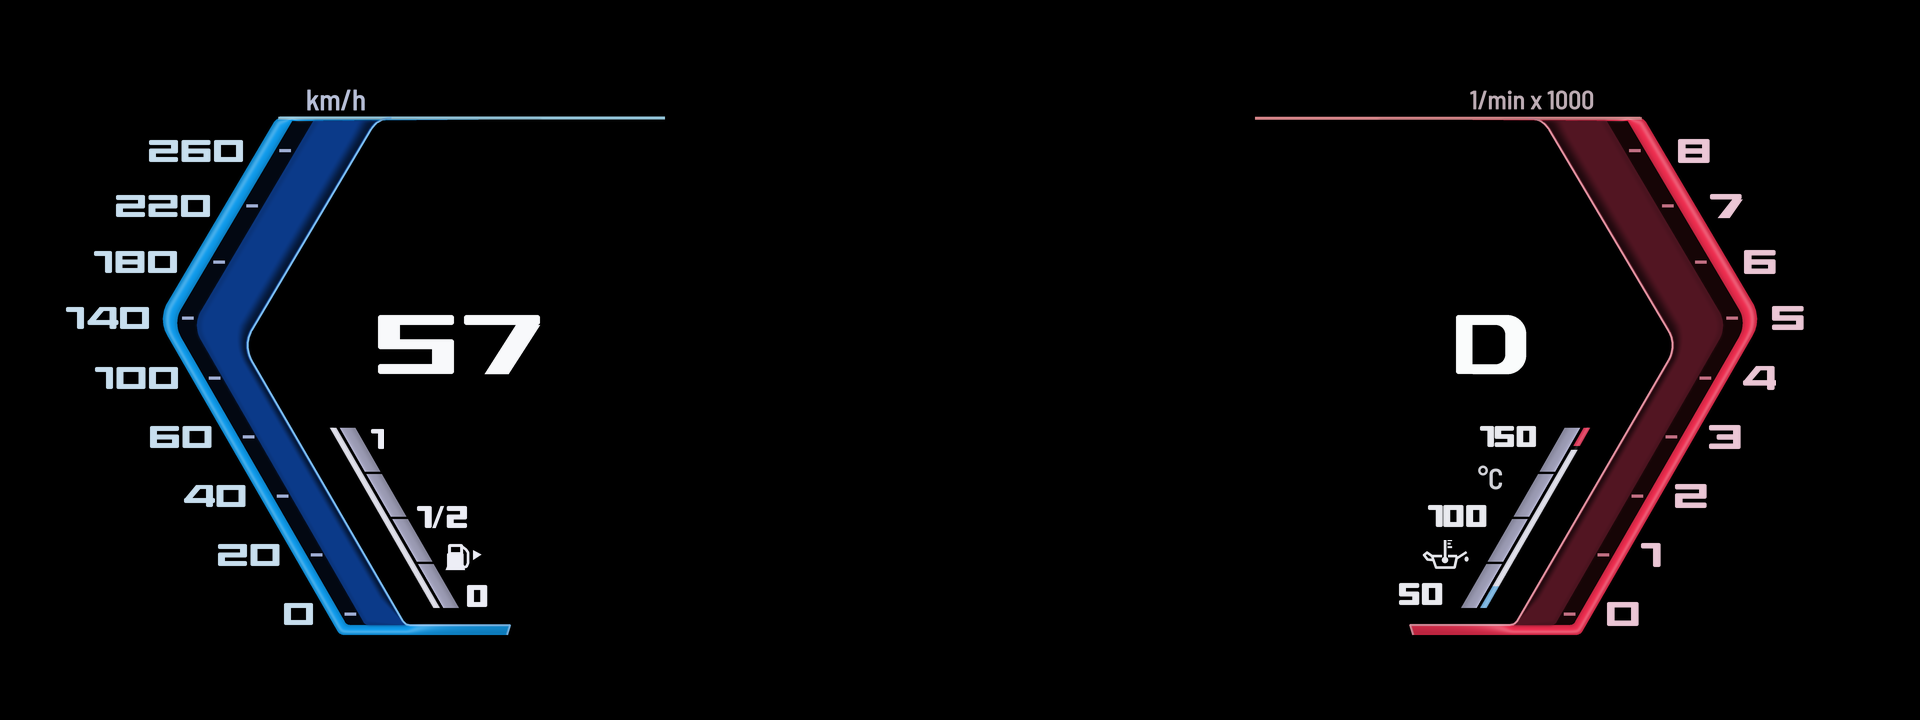
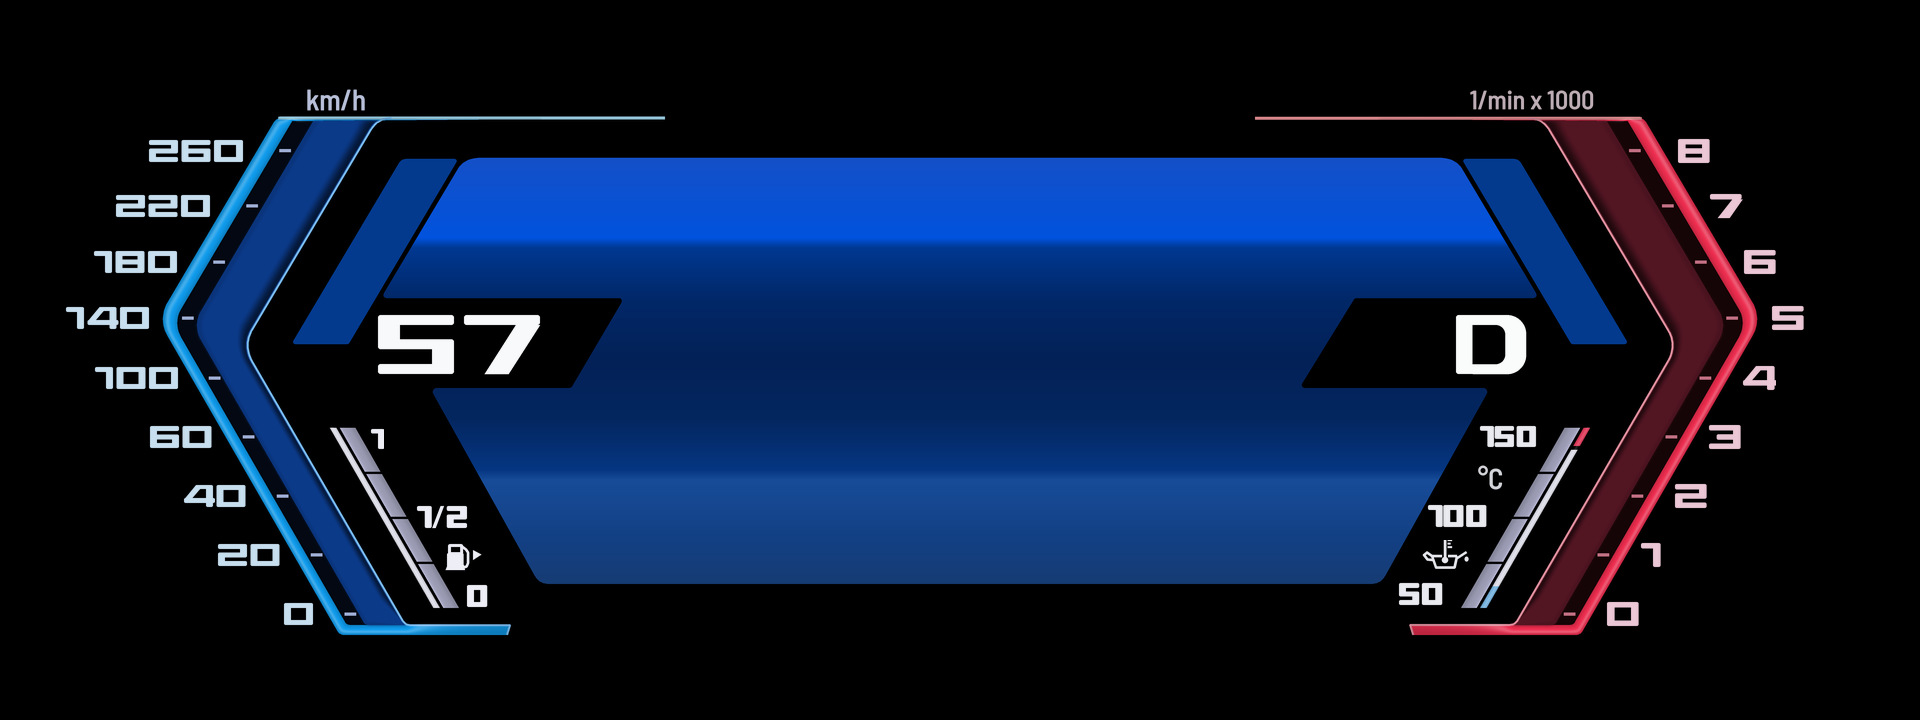
cluster: ID8-A central frame filled: row gradient sampled on the photo, flat wings
Claude-Session: https://claude.ai/code/session_01APCM7bQyWwkFmahRh5zUds

diff --git a/cluster/tools/gen_static.py b/cluster/tools/gen_static.py
@@ -374,6 +374,27 @@ def draw_labels(img, cfg, ss=8):
         img.alpha_composite(layer, (int(round(x0 - 4 * k * kx)), int(round(y0 - 4 * k))))
 
 
+def draw_panel(img, cfg):
+    """The central frame (supersampled canvas): its shape filled with the row gradient, the wings flat."""
+    W, H = cfg['grid']
+    for name, poly in panel_shapes(cfg).items():
+        base = name.split('.')[0]
+        col = cfg['elements'][base].get('colors')
+        if not col:
+            continue
+        m = Image.new('L', img.size, 0)
+        ImageDraw.Draw(m).polygon([(x * SS, y * SS) for x, y in poly], fill=255)
+        if name.endswith(('.wing_l', '.wing_r')):
+            fill = Image.new('RGBA', img.size, tuple(col['wing']) + (255,))
+        else:
+            ys, cs = [r[0] for r in col['rows']], np.array([r[1] for r in col['rows']], np.float32)
+            yy = (np.arange(img.size[1]) + 0.5) / SS
+            grad = np.stack([np.interp(yy, ys, cs[:, k]) for k in range(3)], -1)
+            arr = np.repeat(grad[:, None, :], img.size[0], axis=1).astype(np.uint8)
+            fill = Image.fromarray(np.dstack([arr, np.full(arr.shape[:2], 255, np.uint8)]), 'RGBA')
+        img.paste(fill, (0, 0), m)
+
+
 def draw_gauges(d, cfg, sc):
     """The small slanted gauges (fuel, oil): rail and empty track, the track cut by its gaps (polygons in grid px)."""
     W, H = cfg['grid']
@@ -549,6 +570,8 @@ def build_static(cfg):
         d.line(sc(fillet_polyline(to_px(cfg, el['inner']))[1:]), fill=tuple(col['inner_line']), width=2 * SS, joint='curve')
         for x0, y0, x1, y1 in tick_rects(cfg, el):
             d.rectangle([x0 * SS, y0 * SS, x1 * SS, y1 * SS], fill=tuple(col['tick']))
+    draw_panel(img, cfg)
+    d = ImageDraw.Draw(img)
     draw_gauges(d, cfg, sc)
     img = img.resize((W, H), Image.LANCZOS)
     for el in cfg['elements'].values():
